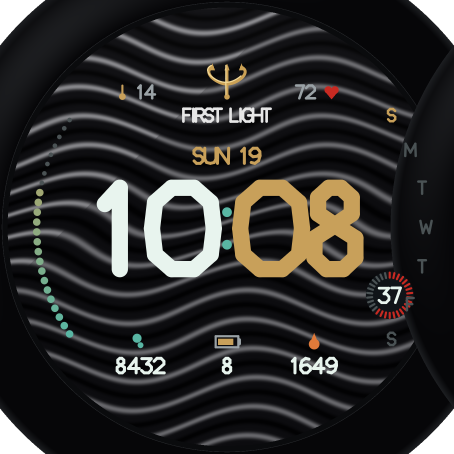
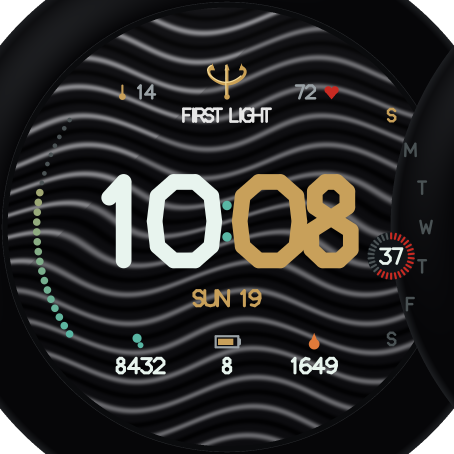
Fix digital-face collisions: metrics-driven layout
On-device the system number fonts are far taller than assumed, so the date
rendered on top of the time, the minutes hit the calories pod, and the
seconds ring spilled to the screen edge. Derive all vertical spacing from
dc.getFontHeight at draw time and clamp the seconds ring inside the dial
(placeSecondsRing), so the layout is collision-free at any font size:
- Digital: time centered, date moved BELOW the digits, bottom row placed
  under the date; ring lower-right of digits (clamped).
- Sport: date on top, time sized/positioned from real metrics, pods placed
  below the measured time bottom, sunrise/sunset row below the pods; ring
  upper-right, clear of the 3 o'clock battery icon.
- Cleaner sunrise/sunset icons: solid half-sun + horizon + side arrow.
- AOD uses FONT_NUMBER_HOT with metrics-placed date (no more overlap).
Mocks/screenshots updated to match.

Claude-Session: https://claude.ai/code/session_01VxnLBqozsNgBRC51BmxhAE

Changed region(s): [[0.2159, 0.3084, 0.9251, 0.7093]]

diff --git a/tools/gen_digital_mocks.py b/tools/gen_digital_mocks.py
@@ -207,15 +207,15 @@ def face_digital(size, ss=3):
     heart(cv, c + 0.360 * R, ty, 0.036 * R, RED)
     draw_text(cv, "72", c + 0.270 * R, ty, 0.044 * R, 0.0044 * R, DIM)
 
-    # date
-    draw_text(cv, "SUN 19", c, c - 0.245 * R, 0.052 * R, 0.0052 * R, GOLD,
+    # the time — two-tone (top slot belongs to the trident/wordmark)
+    big_time(cv, c, R, c - 0.020 * R, 0.270 * R)
+
+    # date below the digits
+    draw_text(cv, "SUN 19", c, c + 0.245 * R, 0.052 * R, 0.0052 * R, GOLD,
               total_w=0.230 * R)
 
-    # the time — two-tone
-    big_time(cv, c, R, c + 0.005 * R, 0.280 * R)
-
     # ticked seconds ring + gauges
-    seconds_ring(cv, c + 0.560 * R, c + 0.235 * R, 0.082 * R)
+    seconds_ring(cv, c + 0.565 * R, c + 0.100 * R, 0.082 * R)
     dotted_gauge(cv, c, R, 0.68)
     weekday_strip(cv, c, R, today=0)
 
@@ -254,13 +254,13 @@ def face_sport(size, ss=3):
     stroke_arc(cv, c, c, ga_r, ga_w, 30, 30 + 120 * 0.85, GOLD, step=3)
     battery_icon(cv, c + 0.585 * R, c + 0.002 * R, 0.058 * R, 0.030 * R, 0.85, GOLD)
 
-    # the time — two-tone (lower so the date clears it), seconds ring at right
-    big_time(cv, c, R, c - 0.085 * R, 0.215 * R)
-    seconds_ring(cv, c + 0.520 * R, c - 0.085 * R, 0.075 * R)
+    # the time — two-tone; seconds ring upper-right, clear of the battery icon
+    big_time(cv, c, R, c + 0.010 * R, 0.200 * R)
+    seconds_ring(cv, c + 0.500 * R, c - 0.115 * R, 0.075 * R)
 
     # complication pods: HR / body battery / calories
-    py = c + 0.290 * R
-    pr = 0.125 * R
+    py = c + 0.350 * R
+    pr = 0.120 * R
     pod(cv, c - 0.300 * R, py, pr, RED)
     heart(cv, c - 0.300 * R, py - 0.048 * R, 0.034 * R, RED)
     draw_text(cv, "72", c - 0.300 * R, py + 0.045 * R, 0.050 * R, 0.0052 * R, LUME)
@@ -271,12 +271,12 @@ def face_sport(size, ss=3):
     flame(cv, c + 0.300 * R, py - 0.048 * R, 0.040 * R, (0xE0, 0x7A, 0x3A))
     draw_text(cv, "1649", c + 0.300 * R, py + 0.045 * R, 0.046 * R, 0.0048 * R, LUME)
 
-    # bottom: sunrise / sunset
-    by = c + 0.505 * R
-    sun_icon(cv, c - 0.215 * R, by, 0.040 * R, GOLD, rising=True)
-    draw_text(cv, "6-12", c - 0.100 * R, by, 0.044 * R, 0.0044 * R, DIM)
-    sun_icon(cv, c + 0.085 * R, by, 0.040 * R, (0xB0, 0x7A, 0x4A), rising=False)
-    draw_text(cv, "8-45", c + 0.200 * R, by, 0.044 * R, 0.0044 * R, DIM)
+    # bottom: sunrise / sunset (below the pods)
+    by = c + 0.550 * R
+    sun_icon(cv, c - 0.210 * R, by, 0.045 * R, GOLD, rising=True)
+    draw_text(cv, "6-12", c - 0.095 * R, by, 0.044 * R, 0.0044 * R, DIM)
+    sun_icon(cv, c + 0.100 * R, by, 0.045 * R, (0xB0, 0x7A, 0x4A), rising=False)
+    draw_text(cv, "8-45", c + 0.215 * R, by, 0.044 * R, 0.0044 * R, DIM)
 
     return downsample(cv, size, ss)
 